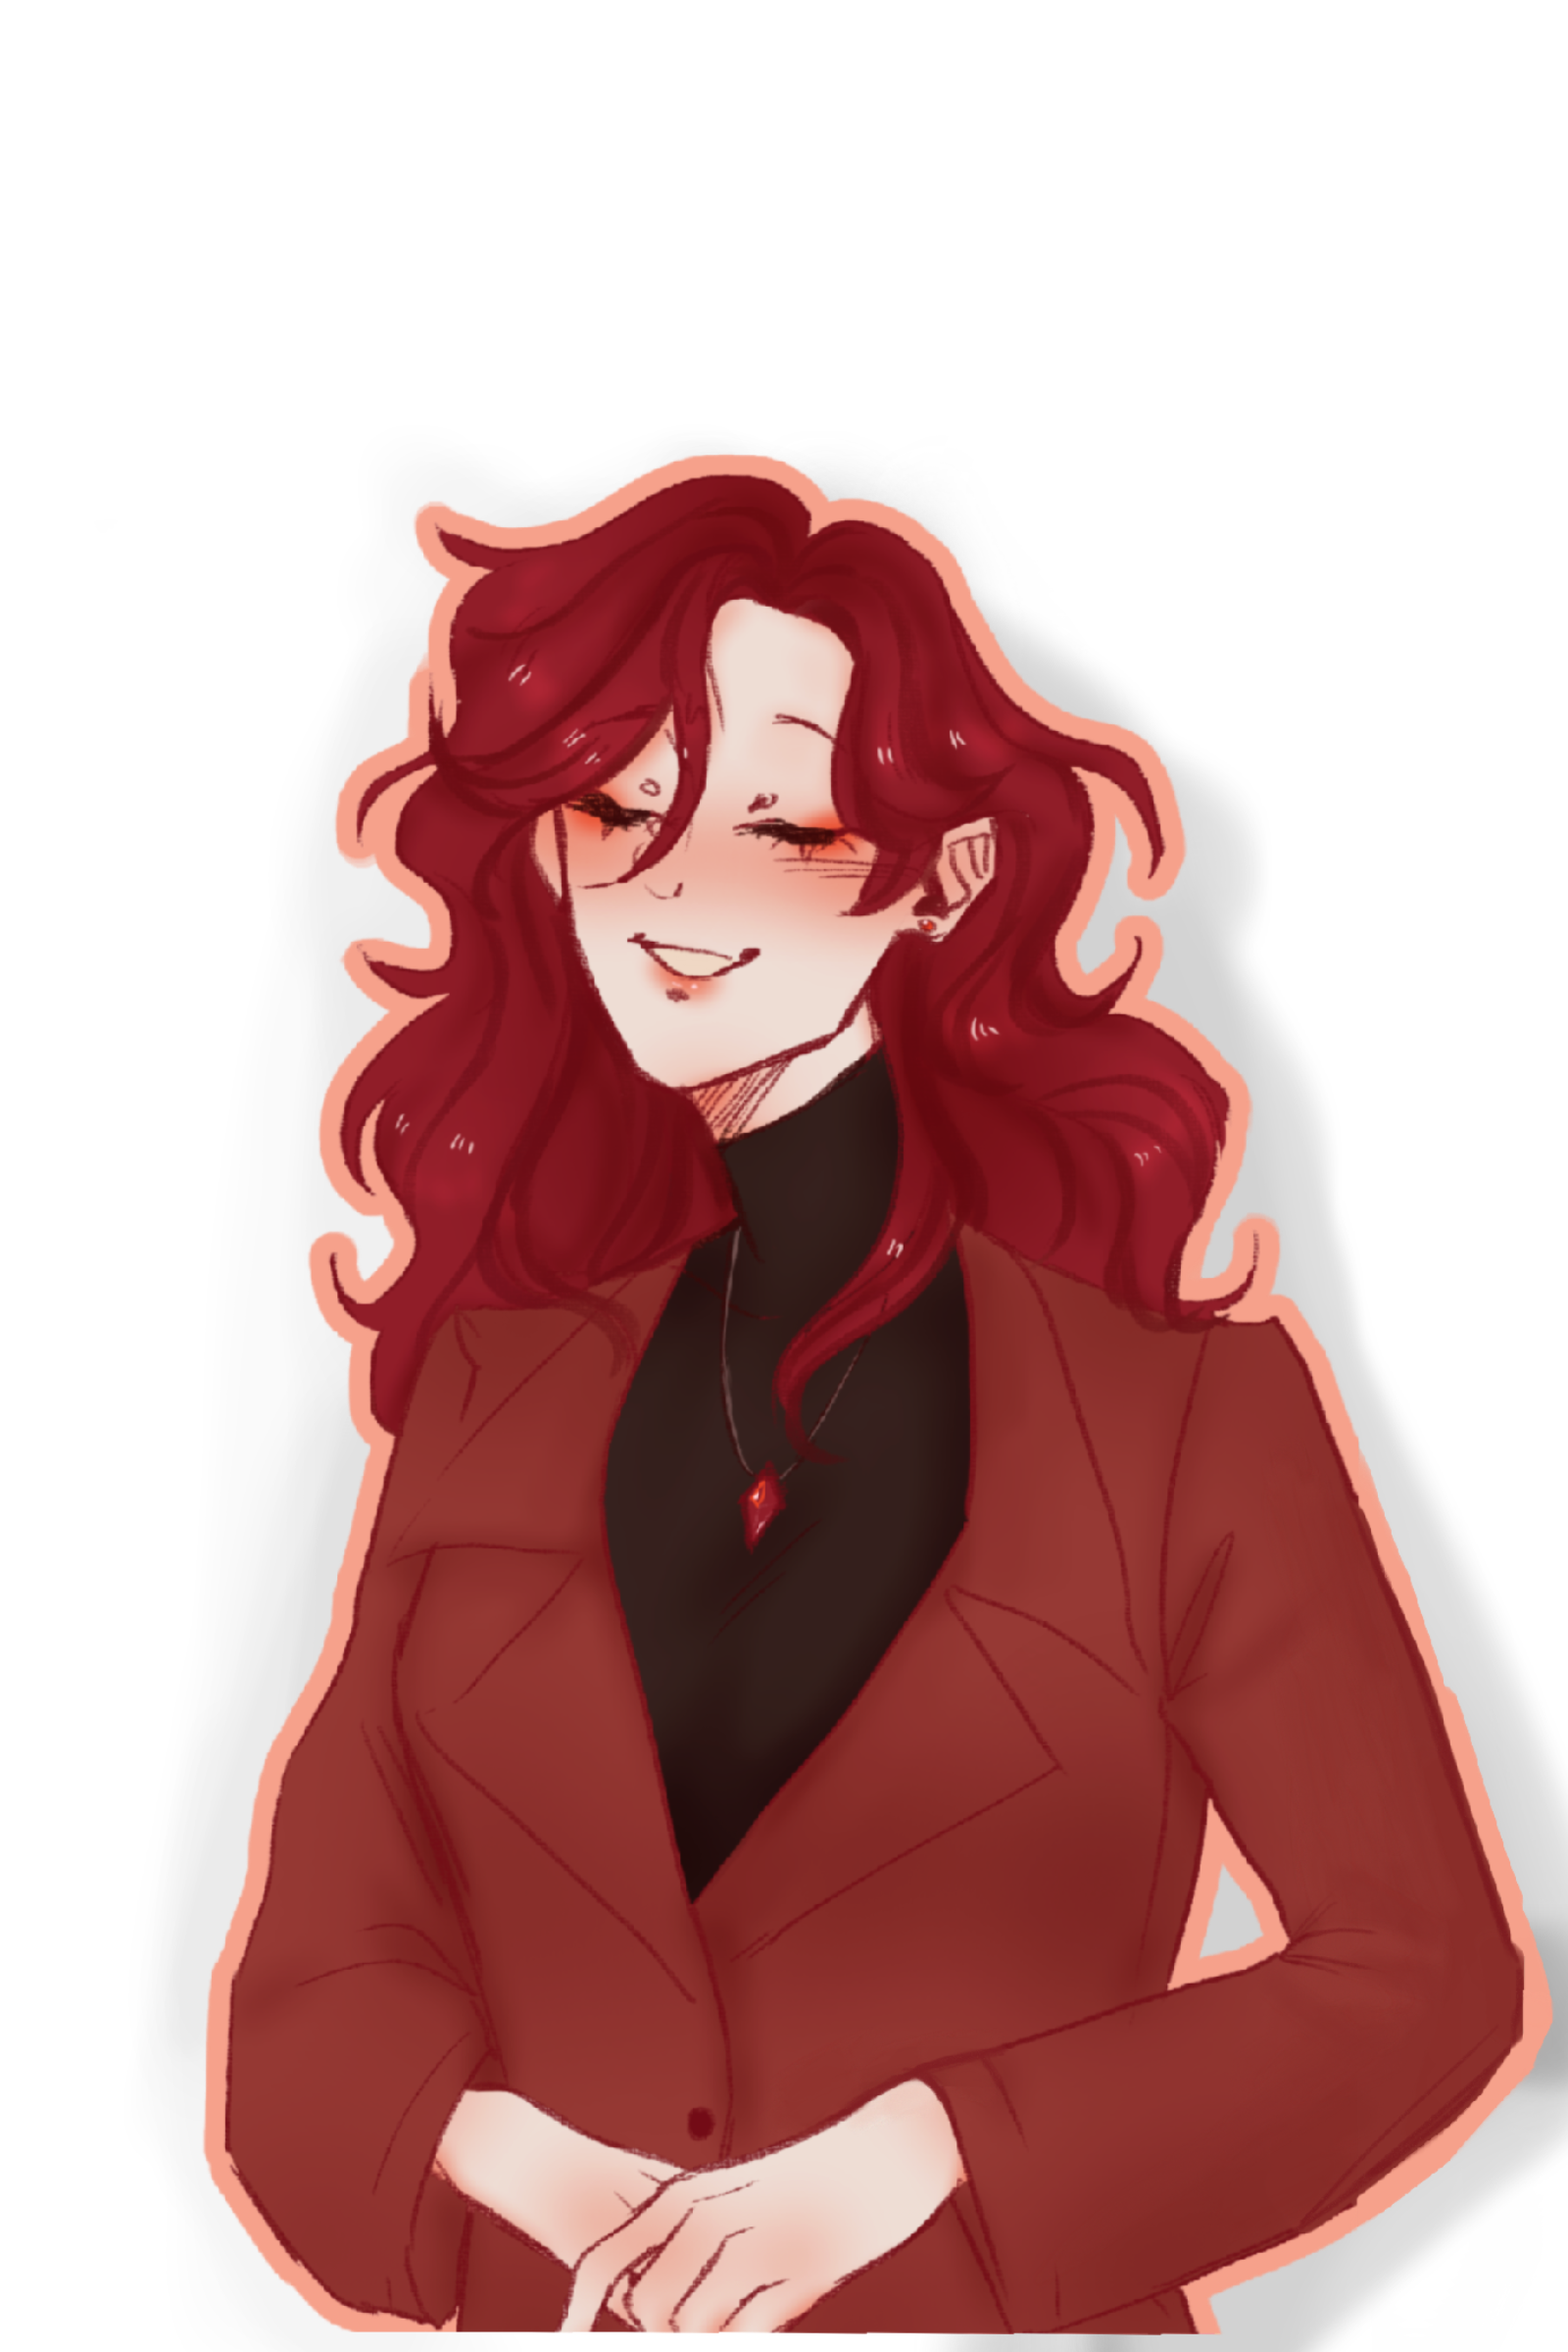
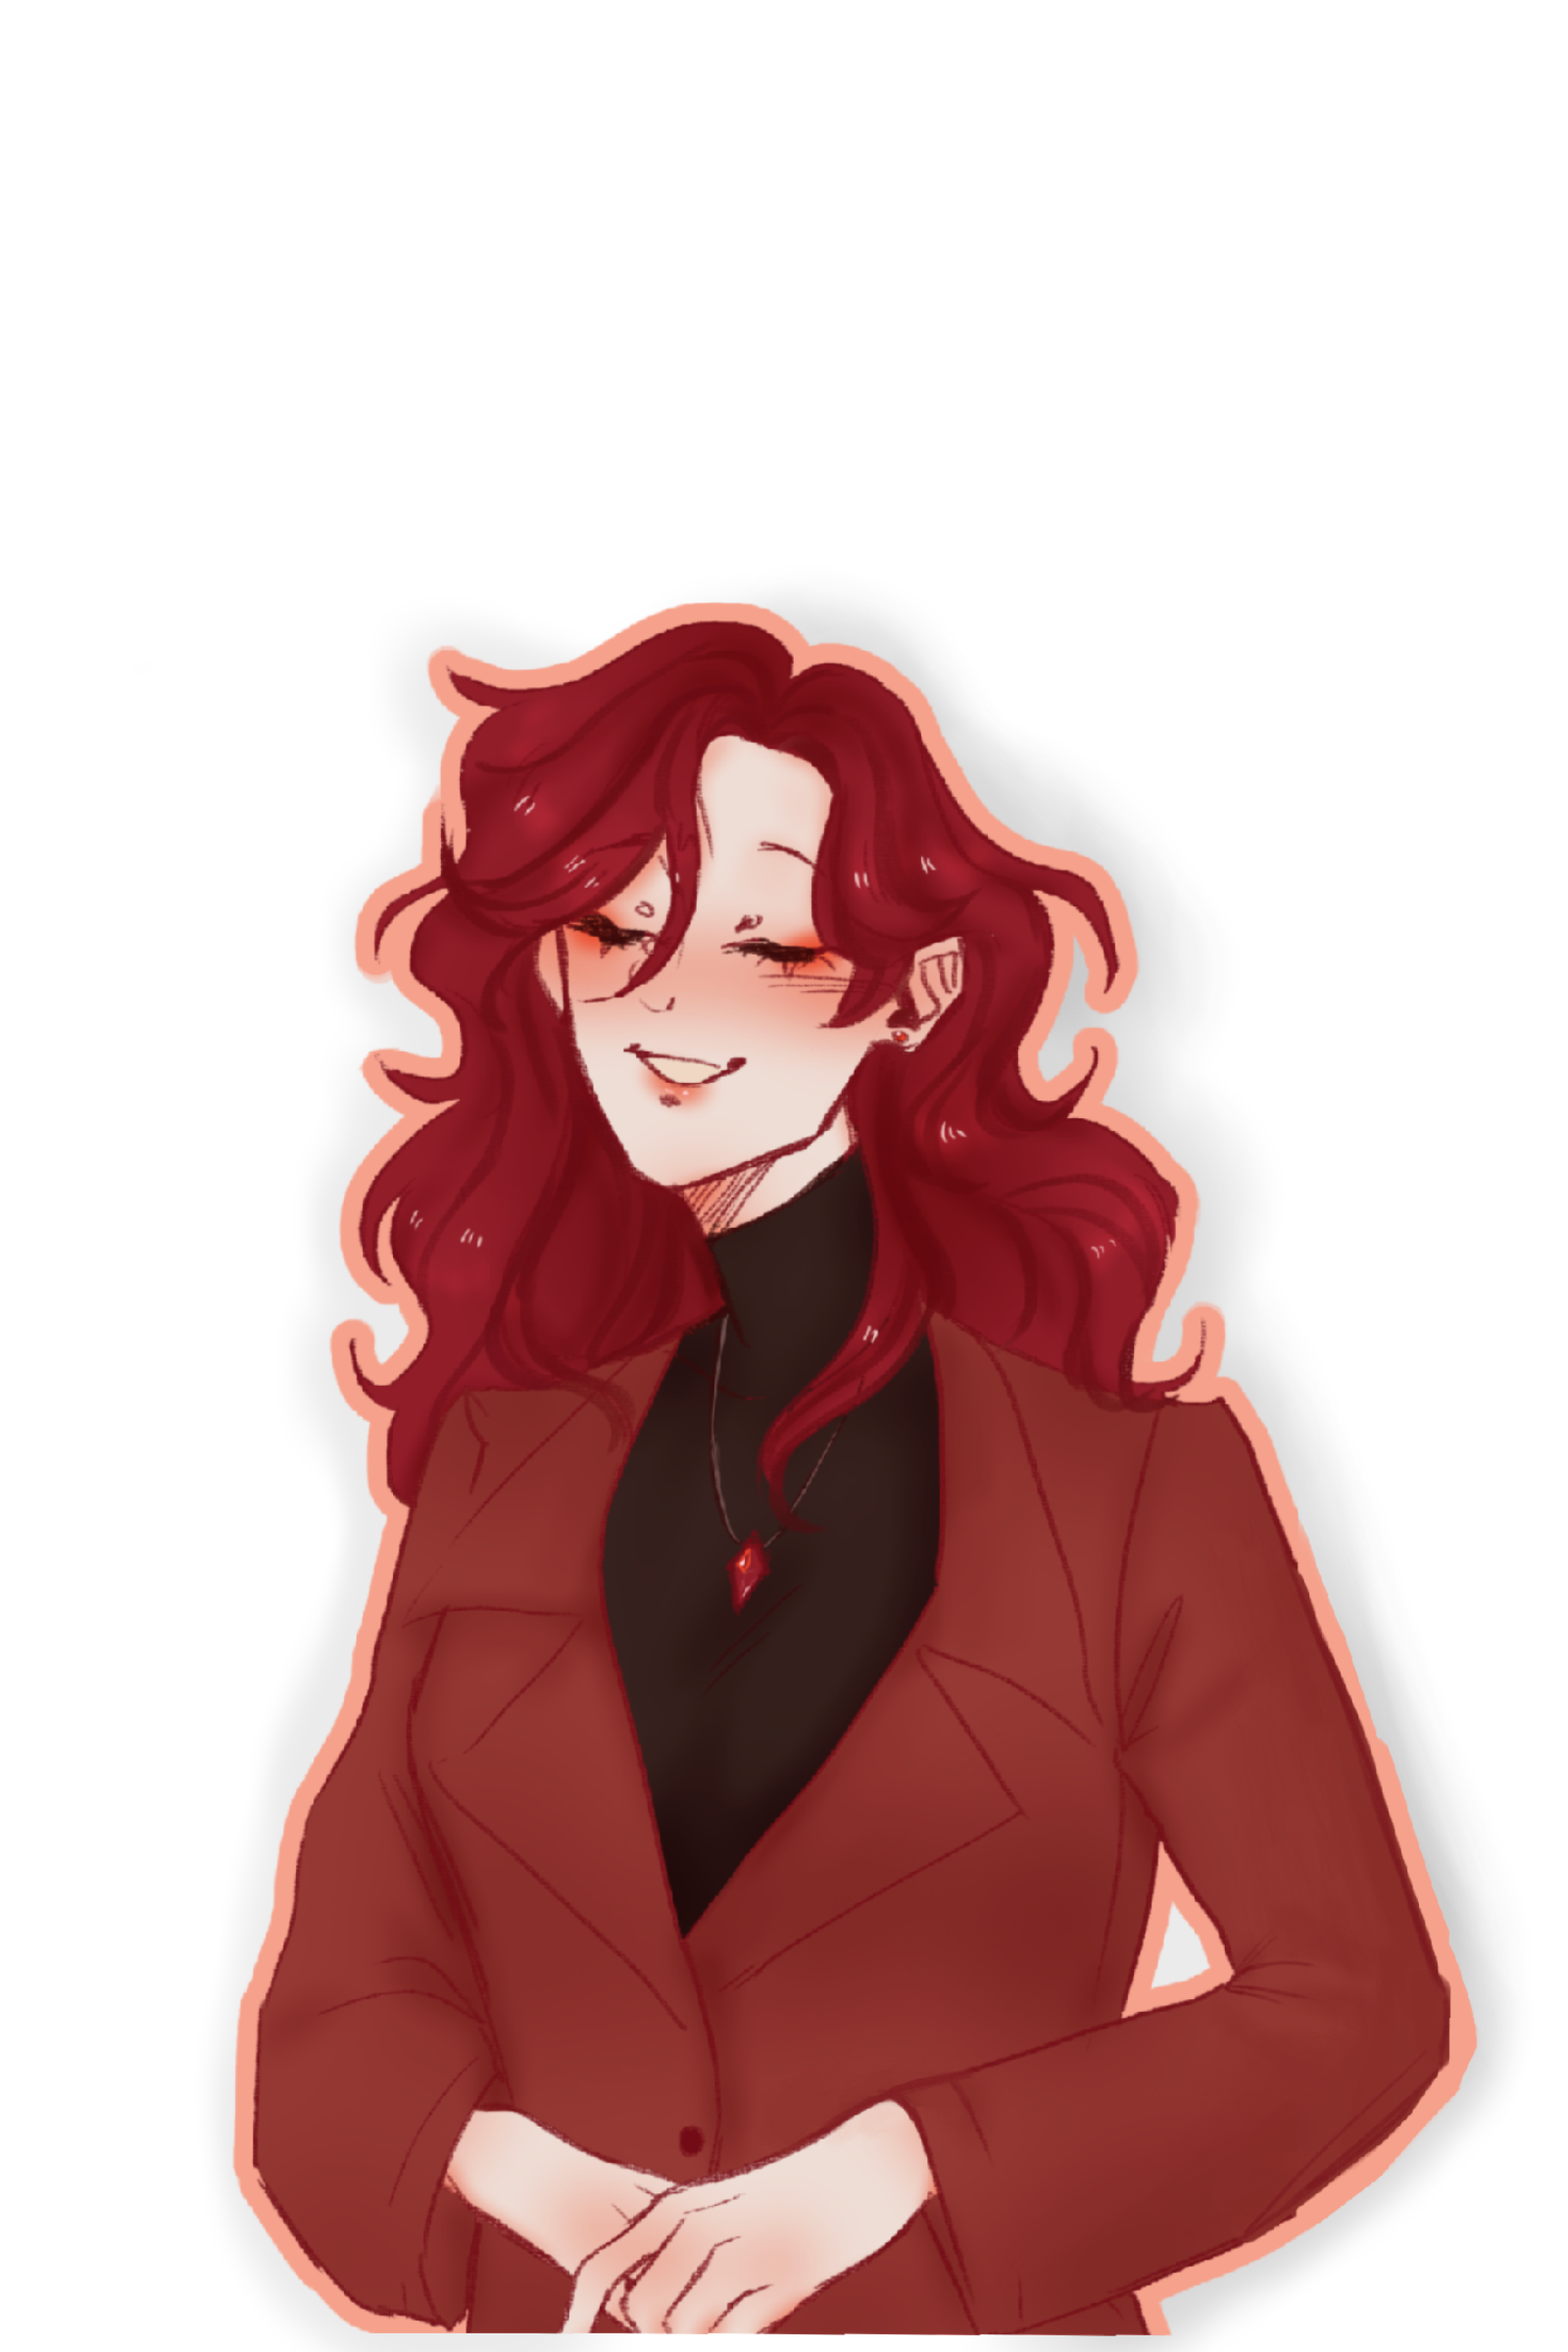
temporary changes

diff --git a/css/styles.css b/css/styles.css
@@ -74,6 +74,10 @@
 #ruby{
   background-color: #eaa28e;
 }
+#ruby_info{
+   background-color: #eaa28e;
+   box-shadow: 500px 0px #eaa28e;
+ }
 #python-back {
    background-color: #653c78;
 }
@@ -153,20 +157,20 @@
 .sidebar { 
    flex-grow:1;
    display: block;
-   width: 30%;
+   width: 35%;
    height: 100%;
    flex-direction: column;
    
 }
 .sidebar_pic{
     object-fit:cover;
-    width: 80%;
+    width: 90%;
    height: 100%; 
    margin:auto;
 }
 .block_character_info { 
    flex-grow:1;
-   width: 55%;
+   width: 50%;
    height: 100%;
    padding: 0% 3%;
 }
@@ -174,10 +178,13 @@
    border-radius: 15px;
    flex-grow:1;
    height: auto;
-   margin: 5%;
+   margin: 5% 0 0 5%;
+
 }
 .character_name { 
    border-radius: 15px;
+   border-top-right-radius: 15px;
+   border-bottom-right-radius: 15px;
    flex-grow:1;
    background: rgba(216, 191, 216, 0.5);
    width: 60%;
@@ -230,6 +237,7 @@
       height: 100%;
       flex-direction: column;
    }
+   
    .block_character_info { 
       flex-grow:1;
       width: 50%;

diff --git a/index.html b/index.html
@@ -35,11 +35,12 @@
   <div class="container" id="ruby-back">
     
 		<div class="section" id="Charapters">
+      
 			<div class="block_character_info">
 				<div class="character_name" id="ruby">
           <h2 class="text_name">Рубі<br>(Ruby)</h2>
         </div>
-        <div class="character_info" id="ruby">
+        <div class="character_info" id="ruby_info">
           <h2 class= "text">
             <b>Займенник:</b> вона <br>
             <b>Зріст:</b> 169 <br>
@@ -54,6 +55,7 @@
       <div class="sidebar">
 				<img class="sidebar_pic" src="img/Ruby.png" alt="picture"/>
 			</div>
+    
 		</div>
 	</div>
 
